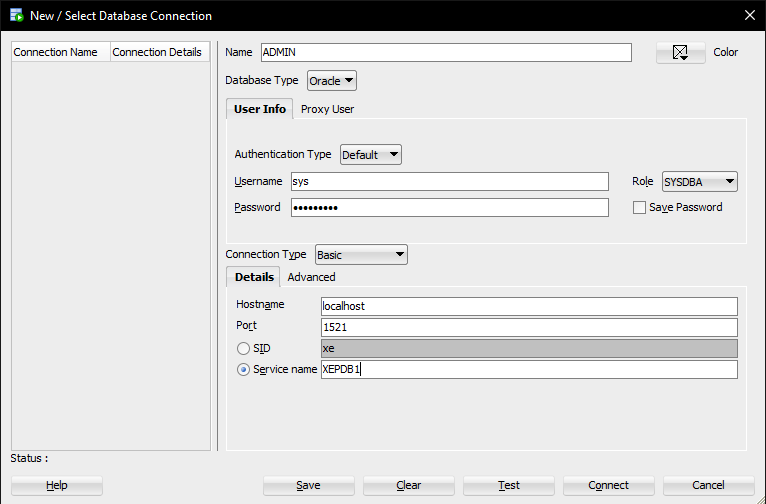
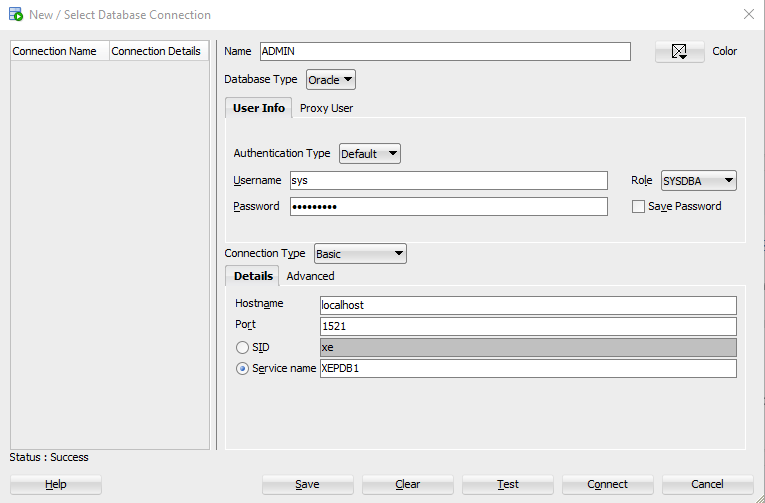
up

diff --git a/pages/aula02.html b/pages/aula02.html
@@ -40,34 +40,36 @@
                 <p>Para criar o usuário admin do sistema, teremos que colocar as seguintes configurações:</p>
                 <img src="../images/imagesAula02/criandoUsuarioAdmin.png" alt="">
 
-                    <li><strong>Name:</strong> ADMIN</li>
-                    <li><strong>Username:</strong> sys (nome padrão do sistema)</li>
-                    <li><strong>Password:</strong> senha cadastrada ao instalar o DB</li>
-                    <li><strong>Role:</strong> SYSDBA (Nível mais alto de permissão de uma banco de dados = modo deus) </li>
+                <li><strong>Name:</strong> ADMIN</li>
+                <li><strong>Username:</strong> sys (nome padrão do sistema)</li>
+                <li><strong>Password:</strong> senha cadastrada ao instalar o DB</li>
+                <li><strong>Role:</strong> SYSDBA (Nível mais alto de permissão de uma banco de dados = modo deus) </li>
+                <ul>
+                    <p>SYSDBA permite:</p>
                     <ul>
-                        <p>SYSDBA permite:</p>
+                        <li>Criar ou apagar bancos de dados.</li>
+                        <li>Executar backup e recovery.</li>
+                        <li>Gerenciar usuários e permissões sem restrições.</li>
+                        <li>Abrir/montar/desmontar o banco (STARTUP e SHUTDOWN).</li>
+                    </ul>
+                </ul>
+                <li><strong>Service name:</strong> XEPDB1 (eXpress Edition Pluggable Database 1)</li>
+                <ul>
+                    <p>Explicação:</p>
+                    <ul>
+                        <li>No Oracle XE (Express Edition), quando você instala o banco de dados, ele cria automaticamente alguns containers e pluggable databases (PDBs).</li>
+                        <li>CDB (Container Database): É o “banco de dados principal” que contém informações de controle e metadados dos bancos que podem ser conectados a ele.</li>
+                        <li>PDB (Pluggable Database): É um “banco de dados plugável”, que funciona como um banco de dados separado dentro do CDB.</li>
+                        <li>No Oracle XE 18c/21c:</li>
                         <ul>
-                            <li>Criar ou apagar bancos de dados.</li>
-                            <li>Executar backup e recovery.</li>
-                            <li>Gerenciar usuários e permissões sem restrições.</li>
-                            <li>Abrir/montar/desmontar o banco (STARTUP e SHUTDOWN).</li>
+                            <li>XEPDB1 é o pluggable database padrão criado automaticamente durante a instalação.</li>
+                            <li>Ele é o PDB que você geralmente conecta para criar tabelas, usuários e executar queries.</li>
+                            <li>Resumindo: XEPDB1 é o nome do banco de dados “pronto para usar” dentro do Oracle XE. É nele que você vai trabalhar normalmente.</li>
                         </ul>
                     </ul>
-                    <li><strong>Service name:</strong> XEPDB1 (eXpress Edition Pluggable Database 1)</li>
-                    <ul>
-                        <p>Explicação:</p>
-                        <ul>
-                            <li>No Oracle XE (Express Edition), quando você instala o banco de dados, ele cria automaticamente alguns containers e pluggable databases (PDBs).</li>
-                            <li>CDB (Container Database): É o “banco de dados principal” que contém informações de controle e metadados dos bancos que podem ser conectados a ele.</li>
-                            <li>PDB (Pluggable Database): É um “banco de dados plugável”, que funciona como um banco de dados separado dentro do CDB.</li>
-                            <li>No Oracle XE 18c/21c:</li>
-                            <ul>
-                                <li>XEPDB1 é o pluggable database padrão criado automaticamente durante a instalação.</li>
-                                <li>Ele é o PDB que você geralmente conecta para criar tabelas, usuários e executar queries.</li>
-                                <li>Resumindo: XEPDB1 é o nome do banco de dados “pronto para usar” dentro do Oracle XE. É nele que você vai trabalhar normalmente.</li>
-                            </ul>
-                        </ul>
-                    </ul>
+                </ul>
+                <li><strong>Test</strong>: Clicando em testar, o DB vai testar se todos os inputs colocados foram corretos.</li>
+                <li><strong>Status: Sucess</strong>: essa é a mensagem que vai aparecer se tudo estiver correto.</li>
             </ul>
             <hr>
         </article>
